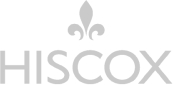
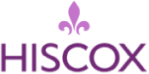
upd 07.03

Changed region(s): [[0.2148, 0.5676, 0.9933, 1.0], [0.3758, 0.0, 0.6174, 0.4865], [0.0, 0.5676, 0.1879, 1.0]]

diff --git a/index.html b/index.html
@@ -2680,19 +2680,16 @@
                         <li class="projects__item list-reset">
                            <a href="#" class="projects__link link freelands-foundation">
                               <img class="projects__img" src="img/freelands-foundation.jpg" alt="Freelands Foundation">
-                              <img class="projects__img projects__img-color" src="img/freelands-foundation-color.jpg" alt="Freelands Foundation">
                            </a>
                         </li>
                         <li class="projects__item list-reset">
                            <a href="#" class="projects__link link institute">
                               <img class="projects__img" src="img/institute.jpg" alt="Institute">
-                              <img class="projects__img projects__img-color" src="img/institute-color.jpg" alt="Institute">
                            </a>
                         </li>
                         <li class="projects__item list-reset">
                            <a href="#" class="projects__link link workhouse">
                               <img class="projects__img" src="img/workhouse.jpg" alt="Workhouse">
-                              <img class="projects__img projects__img-color" src="img/workhouse-color.jpg" alt="Workhouse">
                            </a>
                         </li>
                      </ul>
@@ -2700,19 +2697,16 @@
                         <li class="projects__item list-reset">
                            <a href="#" class="projects__link link wine">
                               <img class="projects__img" src="img/wine.jpg" alt="Wine">
-                              <img class="projects__img projects__img-color" src="img/wine-color.jpg" alt="Wine">
                            </a>
                         </li>
                         <li class="projects__item list-reset">
                            <a href="#" class="projects__link link hiscox">
                               <img class="projects__img" src="img/hiscox.jpg" alt="Hiscox">
-                              <img class="projects__img projects__img-color" src="img/hiscox-color.jpg" alt="Hiscox">
                            </a>
                         </li>
                         <li class="projects__item list-reset">
                            <a href="#" class="projects__link link camden">
                               <img class="projects__img" src="img/camden.jpg" alt="Camden">
-                              <img class="projects__img projects__img-color" src="img/camden-color.jpg" alt="Camden">
                            </a>
                         </li>
                      </ul>
@@ -2720,19 +2714,16 @@
                         <li class="projects__item list-reset">
                            <a href="#" class="projects__link link stassen">
                               <img class="projects__img" src="img/stassen.jpg" alt="Stassen">
-                              <img class="projects__img projects__img-color" src="img/stassen-color.jpg" alt="Stassen">
                            </a>
                         </li>
                         <li class="projects__item list-reset">
                            <a href="#" class="projects__link link watts">
                               <img class="projects__img" src="img/watts.jpg" alt="Watts">
-                              <img class="projects__img projects__img-color" src="img/watts-color.jpg" alt="Watts">
                            </a>
                         </li>
                         <li class="projects__item list-reset">
                            <a href="#" class="projects__link link art-design">
                               <img class="projects__img" src="img/art-design.jpg" alt="Art-design">
-                              <img class="projects__img projects__img-color" src="img/art-design-color.jpg" alt="Art-design">
                            </a>
                         </li>
                      </ul>
@@ -2741,47 +2732,47 @@
             </div>
          </section>
          <section id="contacts" class="contacts">
-            <div class="contacts__header">
-               <h2 class="contacts__title title text-reset">
+            <div class="contacts__content container">
+               <h2 class="contacts__title title text-reset ">
                   Контакты
                </h2>
-            </div>
-            <div class="contacts__columns container">
-               <div class="contacts__left-column">
-                  <p class="contacts__shouroom text-reset">
-                     Шоурум №4
-                  </p>
-                  <address class="contacts__address text-reset">
-                     Леонтьевский переулок, дом 5, строение 1
-                  </address>
-                  <p class="contacts__left-column-text text-reset">
-                     Заказать обратный звонок
-                  </p>
-                  <form action="https://jsonplaceholder.typicode.com/posts" enctype="multipart/form-data" class="contacts__form js-form" method="POST">
-                     <div class="just-validate-tooltip-container">
-                        <input class="contacts__input input" name="name" type="text" placeholder="Имя*" data-validate-field="name">
-                     </div>
-                     <div class="just-validate-tooltip-container">
-                        <input id="tel" class="contacts__input input" name="tel" type="tel" placeholder="Телефон*" data-validate-field="tel" data-validate-rules="phone">
-                     </div>
-                     <button class="contacts__button btn">
-                     Заказать
-                     </button>
-                  </form>
-                  <p class="contacts__left-column-text text-reset">
-                     Связаться в один клик
-                  </p>
-                  <ul class="contacts__list list-reset">
-                     <li class="contacts__item">
-                        <a href="#" class="contacts__link link whatsapp"></a>
-                     </li>
-                     <li class="contacts__item">
-                        <a href="#" class="contacts__link link telegram"></a>
-                     </li>
-                  </ul>
-               </div>
-               <div class="contacts__right-column">
-                  <div id ="js-map" class="map"></div>
+               <div class="contacts__columns">
+                  <div class="contacts__left-column">
+                     <p class="contacts__shouroom text-reset">
+                        Шоурум №4
+                     </p>
+                     <address class="contacts__address text-reset">
+                        Леонтьевский переулок, дом 5, строение 1
+                     </address>
+                     <p class="contacts__left-column-text text-reset">
+                        Заказать обратный звонок
+                     </p>
+                     <form action="https://jsonplaceholder.typicode.com/posts" enctype="multipart/form-data" class="contacts__form js-form" method="POST">
+                        <div class="just-validate-tooltip-container">
+                           <input class="contacts__input input" name="name" type="text" placeholder="Имя*" data-validate-field="name">
+                        </div>
+                        <div class="just-validate-tooltip-container">
+                           <input id="tel" class="contacts__input input" name="tel" type="tel" placeholder="Телефон*" data-validate-field="tel" data-validate-rules="phone">
+                        </div>
+                        <button class="contacts__button btn">
+                        Заказать
+                        </button>
+                     </form>
+                     <p class="contacts__left-column-text text-reset">
+                        Связаться в один клик
+                     </p>
+                     <ul class="contacts__list list-reset">
+                        <li class="contacts__item">
+                           <a href="#" class="contacts__link link whatsapp"></a>
+                        </li>
+                        <li class="contacts__item">
+                           <a href="#" class="contacts__link link telegram"></a>
+                        </li>
+                     </ul>
+                  </div>
+                  <div class="contacts__right-column">
+                     <div id ="js-map" class="map"></div>
+                  </div>
                </div>
             </div>
          </section>

diff --git a/css/style.css b/css/style.css
@@ -1385,7 +1385,7 @@ body {
 }
 
 .projects__title {
-    margin-bottom: 19px;
+    margin-bottom: 22px;
 }
 
 .projects__text {
@@ -1417,11 +1417,13 @@ body {
 
 .projects__item {
     border: 1px solid var(--grey-border-color);
-    transition: border .2s ease;
+    transition: border .2s ease, filter .2s ease;
+    filter: grayscale(100%);
 }
 
 .projects__item:hover {
     border-color: var(--hover-violet-color);
+    filter: none;
 }
 
 .projects__link {
@@ -1432,26 +1434,8 @@ body {
     height: 150px;
 }
 
-.projects__link:hover > .projects__img {
-    opacity: 0;
-}
-
-.projects__link:hover > .projects__img-color {
-    opacity: 1;
-}
-
 .projects__item:not(:last-child) {
     margin-right: 50px;
-}
-
-.projects__img {
-    position: relative;
-    transition: opacity .2s ease;
-}
-
-.projects__img-color {
-    position: absolute;
-    opacity: 0;
 }
 
 .projects__arrow {
@@ -1480,7 +1464,6 @@ body {
 }
 
 .contacts__title {
-    padding-left: 159px;
     padding-bottom: 20px;
     border-bottom: 1px solid var(--grey-border-color);
 }
